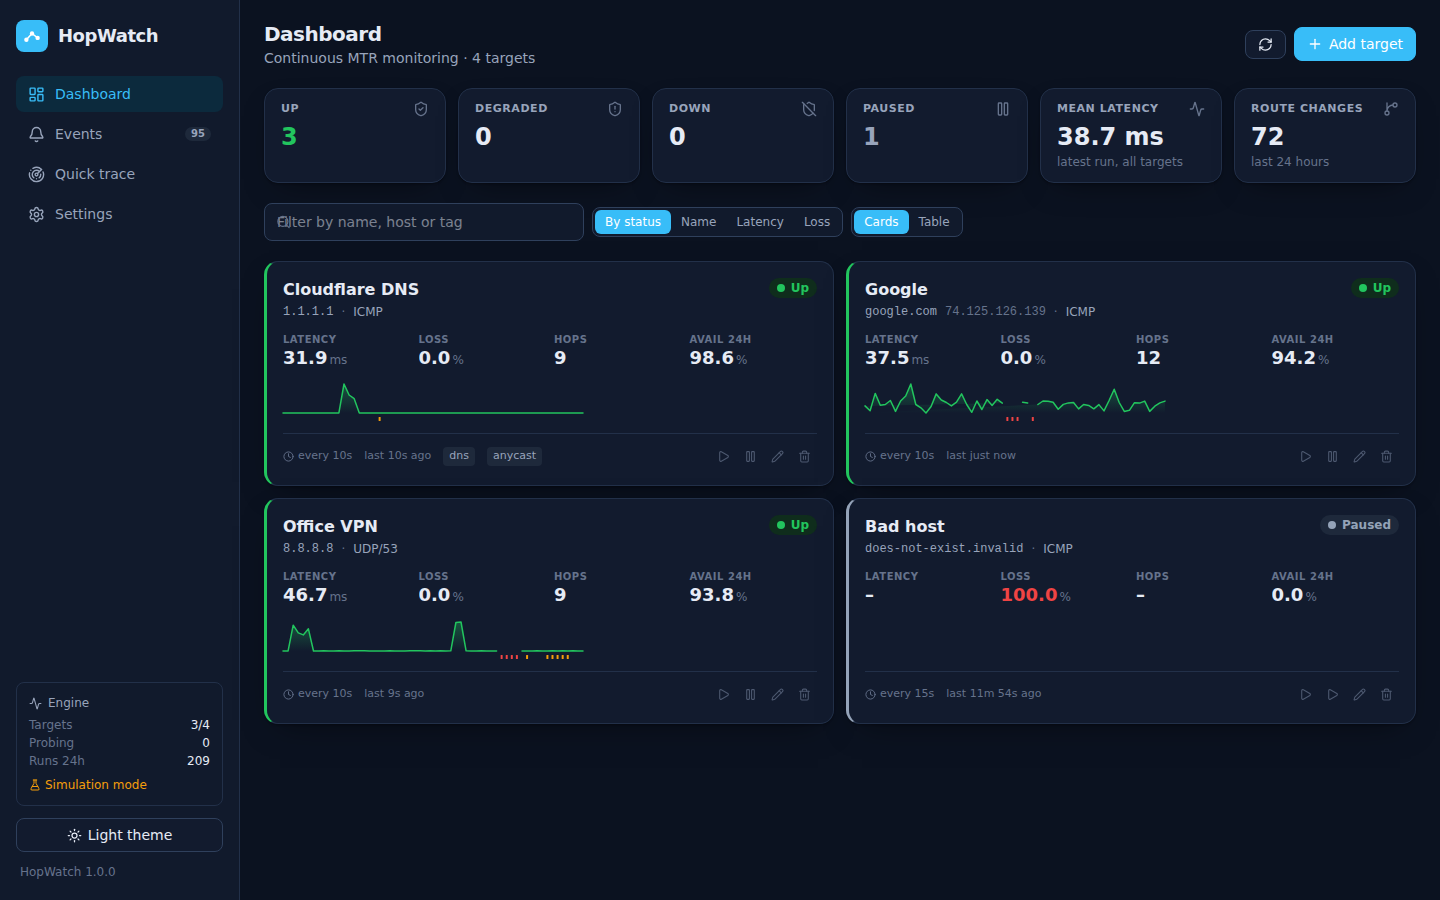
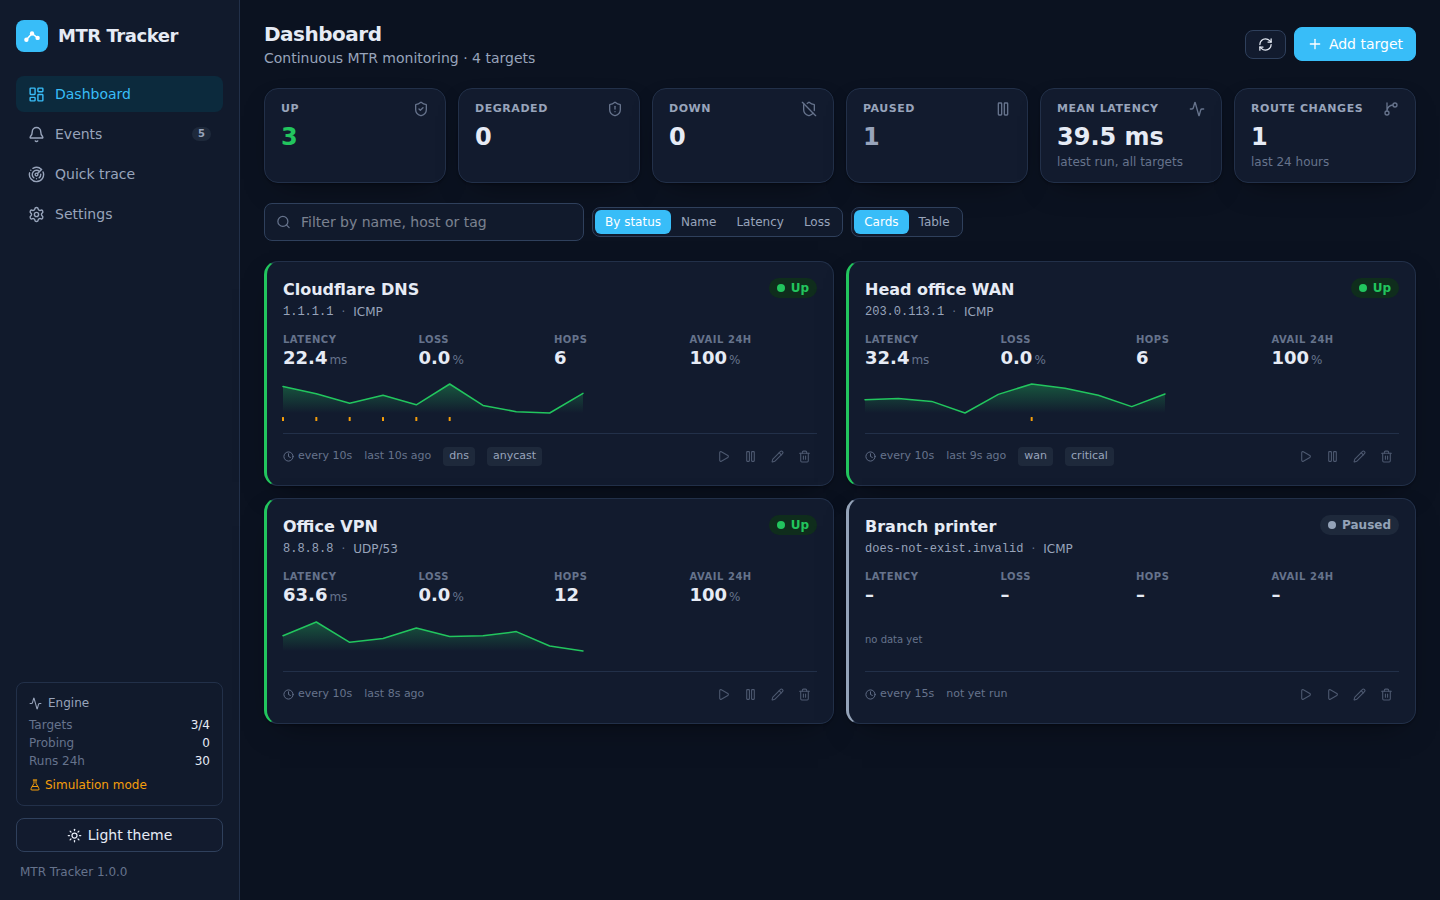
Rename app to MTR Tracker and add CLAUDE.md
- Product name is now MTR Tracker in the UI, API status, Docker image,
  compose service/volume, logger names and package name.
- Environment variables use the MTR_TRACKER_ prefix; database file is
  mtr-tracker.db.
- README updated for the new name; CLAUDE.md documents layout, commands
  and project conventions for future contributors.
- Screenshots in docs/ regenerated with the new branding.

Claude-Session: https://claude.ai/code/session_01Fy5AaGZNaRGbuqNPhbWKZz

diff --git a/frontend/src/pages/Settings.tsx b/frontend/src/pages/Settings.tsx
@@ -87,7 +87,7 @@ export function Settings() {
                 <div className="space-y-4">
                   <div>
                     <label className="label">Webhook URL</label>
-                    <input className="input font-mono" placeholder="https://hooks.example.com/hopwatch" value={form.webhook_url} onChange={(e) => setForm({ ...form, webhook_url: e.target.value })} spellCheck={false} />
+                    <input className="input font-mono" placeholder="https://hooks.example.com/mtr-tracker" value={form.webhook_url} onChange={(e) => setForm({ ...form, webhook_url: e.target.value })} spellCheck={false} />
                     <div className="help">A JSON POST is sent for the selected events. Works with any generic webhook receiver (n8n, Zapier, custom).</div>
                   </div>
                   <div>
@@ -104,7 +104,7 @@ export function Settings() {
                   <details className="text-xs text-muted">
                     <summary className="cursor-pointer font-medium">Payload example</summary>
                     <pre className="mt-2 overflow-x-auto rounded-lg border border-border p-3 font-mono text-[11px]" style={{ background: "var(--bg-elev)" }}>{`{
-  "source": "HopWatch",
+  "source": "MTR Tracker",
   "event": "down",
   "severity": "critical",
   "message": "Head office WAN is DOWN: destination unreachable",
@@ -143,17 +143,17 @@ export function Settings() {
             ) : (
               <div className="text-sm text-faint">Loading…</div>
             )}
-            {s?.simulate && <p className="mt-3 text-xs text-degraded">Simulation mode is on: paths are synthetic. Unset HOPWATCH_SIMULATE to send real probes.</p>}
-            {s && !s.simulate && !s.mtr_version && <p className="mt-3 text-xs text-down">The mtr binary was not found. Install mtr / mtr-tiny or set HOPWATCH_MTR_BINARY.</p>}
+            {s?.simulate && <p className="mt-3 text-xs text-degraded">Simulation mode is on: paths are synthetic. Unset MTR_TRACKER_SIMULATE to send real probes.</p>}
+            {s && !s.simulate && !s.mtr_version && <p className="mt-3 text-xs text-down">The mtr binary was not found. Install mtr / mtr-tiny or set MTR_TRACKER_MTR_BINARY.</p>}
           </section>
           <section className="card p-5 text-xs text-muted">
             <h2 className="mb-2 text-sm font-semibold text-text">Environment variables</h2>
             <ul className="space-y-1 font-mono">
-              <li>HOPWATCH_PORT=8080</li>
-              <li>HOPWATCH_DATA_DIR=/data</li>
-              <li>HOPWATCH_MAX_CONCURRENT_RUNS=4</li>
-              <li>HOPWATCH_MTR_BINARY=mtr</li>
-              <li>HOPWATCH_SIMULATE=0</li>
+              <li>MTR_TRACKER_PORT=8080</li>
+              <li>MTR_TRACKER_DATA_DIR=/data</li>
+              <li>MTR_TRACKER_MAX_CONCURRENT_RUNS=4</li>
+              <li>MTR_TRACKER_MTR_BINARY=mtr</li>
+              <li>MTR_TRACKER_SIMULATE=0</li>
             </ul>
             <p className="mt-2 font-sans">These are read at startup; restart the container to apply changes.</p>
           </section>

diff --git a/frontend/src/pages/Dashboard.tsx b/frontend/src/pages/Dashboard.tsx
@@ -23,8 +23,8 @@ export function Dashboard() {
   const now = useNow();
   const toast = useToast();
   const [query, setQuery] = useState("");
-  const [sort, setSort] = useLocalStorage<SortKey>("hopwatch.sort", "status");
-  const [view, setView] = useLocalStorage<View>("hopwatch.view", "cards");
+  const [sort, setSort] = useLocalStorage<SortKey>("mtr-tracker.sort", "status");
+  const [view, setView] = useLocalStorage<View>("mtr-tracker.view", "cards");
   const [formOpen, setFormOpen] = useState(false);
   const [editing, setEditing] = useState<Target | null>(null);
   const [deleting, setDeleting] = useState<Target | null>(null);
@@ -191,7 +191,7 @@ export function Dashboard() {
           <EmptyState
             icon={<Activity size={36} />}
             title="No targets yet"
-            body="Add a host to start running MTR on a schedule. HopWatch records every hop of every run so you can see exactly where latency and loss appear."
+            body="Add a host to start running MTR on a schedule. MTR Tracker records every hop of every run so you can see exactly where latency and loss appear."
             action={
               <button className="btn btn-primary" onClick={() => setFormOpen(true)}>
                 <Plus size={16} /> Add your first target

diff --git a/frontend/src/components/Layout.tsx b/frontend/src/components/Layout.tsx
@@ -68,7 +68,7 @@ export function Layout({ children }: { children: ReactNode }) {
             {theme === "dark" ? <Sun size={15} /> : <Moon size={15} />}
             {theme === "dark" ? "Light theme" : "Dark theme"}
           </button>
-          <div className="px-1">HopWatch {s?.version ?? ""}</div>
+          <div className="px-1">MTR Tracker {s?.version ?? ""}</div>
         </div>
       </aside>
 
@@ -105,7 +105,7 @@ function Brand({ compact }: { compact?: boolean }) {
           <path d="M14 44 L32 24 L50 38" stroke="#fff" strokeWidth="5" fill="none" strokeLinecap="round" strokeLinejoin="round" />
         </svg>
       </span>
-      <span className={classNames("font-semibold tracking-tight", compact ? "text-base" : "text-lg")}>HopWatch</span>
+      <span className={classNames("font-semibold tracking-tight", compact ? "text-base" : "text-lg")}>MTR Tracker</span>
     </Link>
   );
 }

diff --git a/frontend/src/pages/TargetDetail.tsx b/frontend/src/pages/TargetDetail.tsx
@@ -27,8 +27,8 @@ export function TargetDetail() {
   const navigate = useNavigate();
   const toast = useToast();
   const now = useNow();
-  const [range, setRange] = useLocalStorage("hopwatch.range", "24h");
-  const [tab, setTab] = useLocalStorage<Tab>("hopwatch.tab", "path");
+  const [range, setRange] = useLocalStorage("mtr-tracker.range", "24h");
+  const [tab, setTab] = useLocalStorage<Tab>("mtr-tracker.tab", "path");
   const [heatMetric, setHeatMetric] = useState<HeatMetric>("loss");
   const [runFilter, setRunFilter] = useState<"" | "ok" | "failed" | "route_change">("");
   const [runPage, setRunPage] = useState(0);

diff --git a/frontend/vite.config.ts b/frontend/vite.config.ts
@@ -7,8 +7,8 @@ export default defineConfig({
   server: {
     port: 5173,
     proxy: {
-      "/api": { target: process.env.HOPWATCH_API || "http://127.0.0.1:8080", changeOrigin: true },
-      "/healthz": { target: process.env.HOPWATCH_API || "http://127.0.0.1:8080", changeOrigin: true },
+      "/api": { target: process.env.MTR_TRACKER_API || "http://127.0.0.1:8080", changeOrigin: true },
+      "/healthz": { target: process.env.MTR_TRACKER_API || "http://127.0.0.1:8080", changeOrigin: true },
     },
   },
   build: { outDir: "dist", sourcemap: false, chunkSizeWarningLimit: 900 },

diff --git a/frontend/index.html b/frontend/index.html
@@ -5,10 +5,10 @@
     <meta name="viewport" content="width=device-width, initial-scale=1.0" />
     <meta name="color-scheme" content="dark light" />
     <link rel="icon" href="/favicon.svg" type="image/svg+xml" />
-    <title>HopWatch</title>
+    <title>MTR Tracker</title>
     <script>
       try {
-        const t = localStorage.getItem("hopwatch.theme");
+        const t = localStorage.getItem("mtr-tracker.theme");
         if (t === "light" || t === "dark") document.documentElement.dataset.theme = t;
       } catch (e) {}
     </script>

diff --git a/frontend/src/hooks.ts b/frontend/src/hooks.ts
@@ -106,7 +106,7 @@ export function useTheme(): [Theme, () => void] {
   useEffect(() => {
     document.documentElement.dataset.theme = theme;
     try {
-      localStorage.setItem("hopwatch.theme", theme);
+      localStorage.setItem("mtr-tracker.theme", theme);
     } catch {
       /* ignore */
     }

diff --git a/frontend/src/api.ts b/frontend/src/api.ts
@@ -1,4 +1,4 @@
-// Typed client for the HopWatch HTTP API.
+// Typed client for the MTR Tracker HTTP API.
 
 export type Status = "up" | "degraded" | "down" | "pending" | "paused";
 export type Protocol = "icmp" | "udp" | "tcp";

diff --git a/backend/app/scheduler.py b/backend/app/scheduler.py
@@ -14,7 +14,7 @@ from .mtr import HopResult, MtrResult, route_signature, routes_equivalent, run_m
 from .notify import send_webhook
 from .resolver import resolve_host, reverse_lookup_many
 
-log = logging.getLogger("hopwatch.scheduler")
+log = logging.getLogger("mtr-tracker.scheduler")
 
 TICK_SECONDS = 1.0
 CLEANUP_EVERY = 3600.0
@@ -36,8 +36,8 @@ class Scheduler:
 
     async def start(self) -> None:
         self._stop.clear()
-        self._task = asyncio.create_task(self._loop(), name="hopwatch-scheduler")
-        self._cleanup_task = asyncio.create_task(self._cleanup_loop(), name="hopwatch-cleanup")
+        self._task = asyncio.create_task(self._loop(), name="mtr-tracker-scheduler")
+        self._cleanup_task = asyncio.create_task(self._cleanup_loop(), name="mtr-tracker-cleanup")
         log.info("scheduler started (max concurrent runs: %d, simulate=%s)", config.max_concurrent_runs, config.simulate)
 
     async def stop(self) -> None:
@@ -88,7 +88,7 @@ class Scheduler:
     def _launch(self, target_id: int) -> None:
         if target_id in self._running:
             return
-        task = asyncio.create_task(self._run_target(target_id), name=f"hopwatch-run-{target_id}")
+        task = asyncio.create_task(self._run_target(target_id), name=f"mtr-tracker-run-{target_id}")
         self._running[target_id] = task
         task.add_done_callback(lambda _t, tid=target_id: self._running.pop(tid, None))
 
@@ -292,7 +292,7 @@ class Scheduler:
         wanted = settings.get("webhook_events") or []
         if url and kind in wanted:
             payload = {
-                "source": settings.get("site_name") or "HopWatch",
+                "source": settings.get("site_name") or "MTR Tracker",
                 "event": kind,
                 "severity": severity,
                 "message": message,

diff --git a/backend/app/config.py b/backend/app/config.py
@@ -38,11 +38,11 @@ class Config:
 
     @classmethod
     def from_env(cls) -> "Config":
-        data_dir = Path(os.environ.get("HOPWATCH_DATA_DIR", "./data")).resolve()
+        data_dir = Path(os.environ.get("MTR_TRACKER_DATA_DIR", "./data")).resolve()
         data_dir.mkdir(parents=True, exist_ok=True)
-        db_path = Path(os.environ.get("HOPWATCH_DB_PATH", str(data_dir / "hopwatch.db"))).resolve()
+        db_path = Path(os.environ.get("MTR_TRACKER_DB_PATH", str(data_dir / "mtr-tracker.db"))).resolve()
 
-        static_env = os.environ.get("HOPWATCH_STATIC_DIR")
+        static_env = os.environ.get("MTR_TRACKER_STATIC_DIR")
         static_dir: Path | None = None
         if static_env:
             static_dir = Path(static_env).resolve()
@@ -54,13 +54,13 @@ class Config:
         return cls(
             data_dir=data_dir,
             db_path=db_path,
-            host=os.environ.get("HOPWATCH_HOST", "0.0.0.0"),
-            port=_env_int("HOPWATCH_PORT", 8080),
-            mtr_binary=os.environ.get("HOPWATCH_MTR_BINARY", "mtr"),
-            simulate=_env_bool("HOPWATCH_SIMULATE", False),
-            max_concurrent_runs=max(1, _env_int("HOPWATCH_MAX_CONCURRENT_RUNS", 4)),
+            host=os.environ.get("MTR_TRACKER_HOST", "0.0.0.0"),
+            port=_env_int("MTR_TRACKER_PORT", 8080),
+            mtr_binary=os.environ.get("MTR_TRACKER_MTR_BINARY", "mtr"),
+            simulate=_env_bool("MTR_TRACKER_SIMULATE", False),
+            max_concurrent_runs=max(1, _env_int("MTR_TRACKER_MAX_CONCURRENT_RUNS", 4)),
             static_dir=static_dir,
-            log_level=os.environ.get("HOPWATCH_LOG_LEVEL", "info"),
+            log_level=os.environ.get("MTR_TRACKER_LOG_LEVEL", "info"),
         )
 
 

diff --git a/backend/app/main.py b/backend/app/main.py
@@ -21,7 +21,7 @@ logging.basicConfig(
     level=getattr(logging, config.log_level.upper(), logging.INFO),
     format="%(asctime)s %(levelname)-7s %(name)s: %(message)s",
 )
-log = logging.getLogger("hopwatch")
+log = logging.getLogger("mtr-tracker")
 
 
 @asynccontextmanager
@@ -32,7 +32,7 @@ async def lifespan(app: FastAPI) -> AsyncIterator[None]:
     app.state.db = db
     app.state.scheduler = scheduler
     await scheduler.start()
-    log.info("HopWatch %s listening on %s:%s", __version__, config.host, config.port)
+    log.info("MTR Tracker %s listening on %s:%s", __version__, config.host, config.port)
     try:
         yield
     finally:
@@ -41,7 +41,7 @@ async def lifespan(app: FastAPI) -> AsyncIterator[None]:
 
 
 def create_app() -> FastAPI:
-    app = FastAPI(title="HopWatch", version=__version__, lifespan=lifespan, docs_url="/api/docs", openapi_url="/api/openapi.json")
+    app = FastAPI(title="MTR Tracker", version=__version__, lifespan=lifespan, docs_url="/api/docs", openapi_url="/api/openapi.json")
     app.include_router(router)
 
     @app.get("/healthz", include_in_schema=False)

diff --git a/backend/tests/test_api.py b/backend/tests/test_api.py
@@ -12,10 +12,10 @@ from httpx import ASGITransport, AsyncClient
 
 @pytest.fixture
 async def client(tmp_path: Path, monkeypatch: pytest.MonkeyPatch):
-    monkeypatch.setenv("HOPWATCH_SIMULATE", "1")
-    monkeypatch.setenv("HOPWATCH_DATA_DIR", str(tmp_path))
-    monkeypatch.setenv("HOPWATCH_DB_PATH", str(tmp_path / "test.db"))
-    monkeypatch.setenv("HOPWATCH_STATIC_DIR", str(tmp_path / "missing"))
+    monkeypatch.setenv("MTR_TRACKER_SIMULATE", "1")
+    monkeypatch.setenv("MTR_TRACKER_DATA_DIR", str(tmp_path))
+    monkeypatch.setenv("MTR_TRACKER_DB_PATH", str(tmp_path / "test.db"))
+    monkeypatch.setenv("MTR_TRACKER_STATIC_DIR", str(tmp_path / "missing"))
     # config is evaluated at import time; reload the modules for this test.
     import importlib
 
